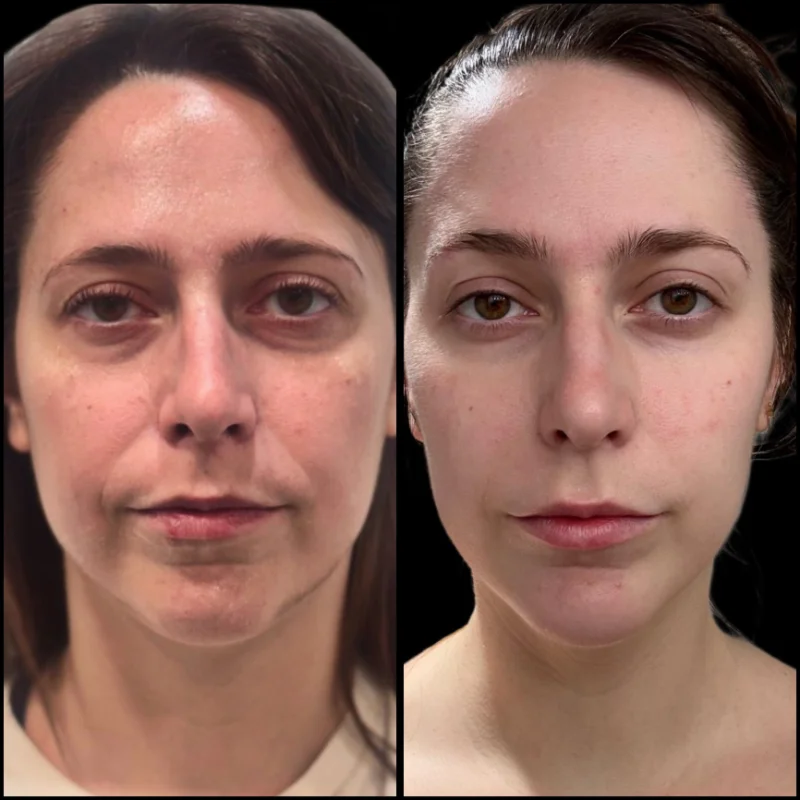
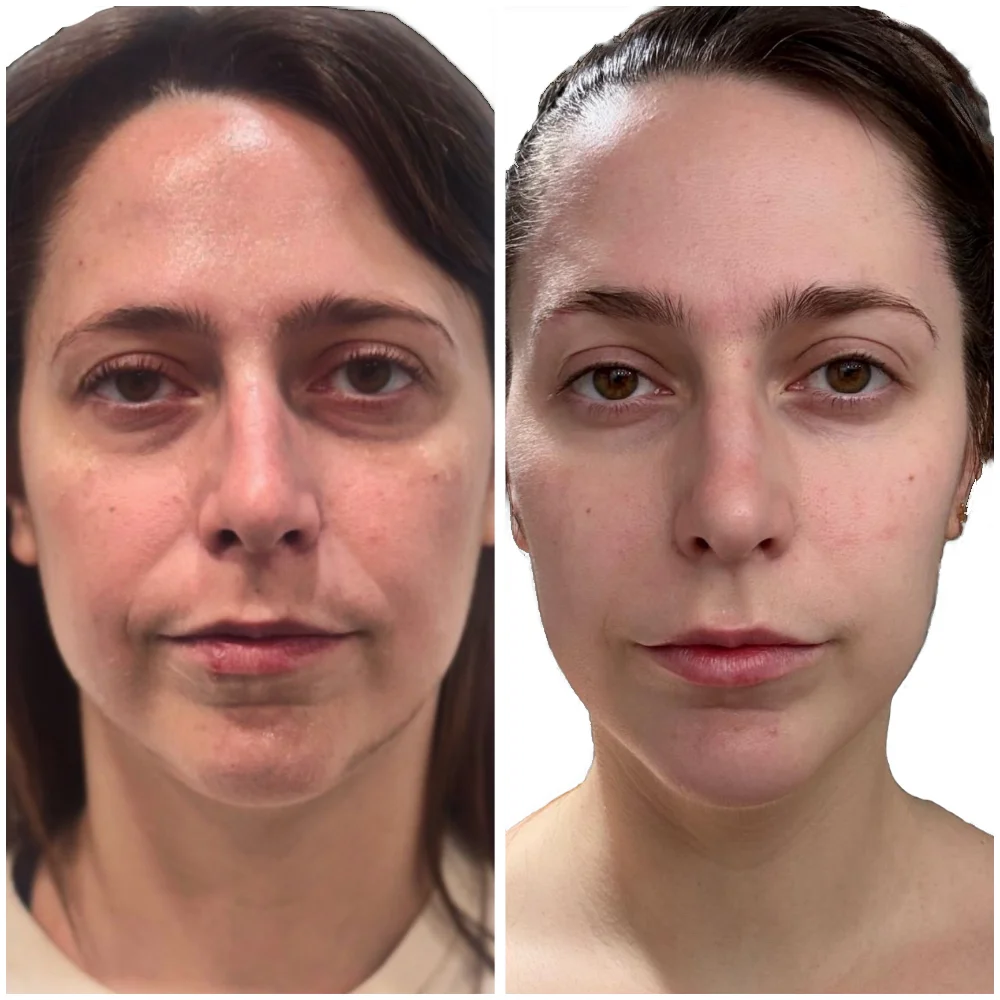
update the results carousel; improve copy and add photos

Changed region(s): [[0.0, 0.0, 1.0, 1.0]]

diff --git a/src/app/sections/home/Results.tsx b/src/app/sections/home/Results.tsx
@@ -2,7 +2,6 @@
 
 import Container from "@/components/Container";
 import Image from "next/image";
-import Link from "next/link";
 import { useMemo, useRef } from "react";
 
 type ResultsCard = {
@@ -17,34 +16,35 @@ export default function ResultsCarouselSection() {
     () => [
       {
         src: "/images/results/cheek-filler-before-after.webp",
+        alt: "Full face refresh result with softened lines and balanced facial contours",
+        title: "Full Face Harmony",
+        description: "Full face and neck Botox, plus filler in cheeks, nasolabial folds, and chin to restore harmony.",
+      },
+      {
+        src: "/images/results/botox-cheek-filler-before-after.webp",
         alt: "Before and after placeholder result",
-        title: "Subtle Lift, Natural Contour",
-        description: "Cheek and midface support with balanced definition.",
+        title: "Gentle Lift & Clean Lines",
+        description: "Forehead Botox paired with cheek filler for a gentle lift and cleaner lines.",
       },
       {
-        src: "/images/results/placeholder-02.jpg",
-        alt: "Skin quality improvement placeholder result",
-        title: "Skin Quality Focus",
-        description: "Refined texture and glow with a conservative approach.",
+        // 3
+        src: "/images/results/botox-cheek-lip-chin-filler-before-after.webp",
+        alt: "Facial balancing result with refined symmetry through cheeks, lips, and chin",
+        title: "Facial Balancing",
+        description: "Full face and neck Botox with filler in cheeks, lips, and chin to fine‑tune proportion.",
       },
-      {
-        src: "/images/results/placeholder-03.jpg",
-        alt: "Jawline definition placeholder result",
-        title: "Refined Structure",
-        description: "Jawline definition that looks like you, just rested.",
-      },
-      {
-        src: "/images/results/placeholder-04.jpg",
-        alt: "Wrinkle reduction placeholder result",
-        title: "Natural Movement Preserved",
-        description: "Softened expression lines without a frozen look.",
-      },
-      {
-        src: "/images/results/placeholder-05.jpg",
-        alt: "Lip balance placeholder result",
-        title: "Balanced Lip Shape",
-        description: "Hydration and shape with proportion-first planning.",
-      },
+      // {
+      //   src: "/images/results/placeholder-04.jpg",
+      //   alt: "Wrinkle reduction placeholder result",
+      //   title: "Natural Movement Preserved",
+      //   description: "Softened expression lines without a frozen look.",
+      // },
+      // {
+      //   src: "/images/results/placeholder-05.jpg",
+      //   alt: "Lip balance placeholder result",
+      //   title: "Balanced Lip Shape",
+      //   description: "Hydration and shape with proportion-first planning.",
+      // },
     ],
     []
   );
@@ -66,12 +66,11 @@ export default function ResultsCarouselSection() {
       <Container>
         <div className="flex items-end justify-between gap-6">
           <div>
-            <p className="font-fraunces text-3xl md:text-4xl font-bold text-outer-space">
-              Real People. Real Results.
-            </p>
+            <h2 className="font-fraunces text-3xl md:text-4xl font-bold text-outer-space">
+              Results that still look like you
+            </h2>
             <p className="mt-3 text-outer-space/80 text-base md:text-lg max-w-2xl">
-              A curated look at subtle, physician-led outcomes focused on balance, restraint,
-              and skin quality over time.
+              A curated look at physician-led Botox and dermal filler outcomes focused on balance, restraint, and long-term skin quality.
             </p>
           </div>
 
@@ -104,9 +103,9 @@ export default function ResultsCarouselSection() {
             <div
               key={card.src}
               ref={index === 0 ? cardRef : null}
-              className="min-w-[80%] md:min-w-[48%] lg:min-w-[32%] snap-start"
+              className="flex-none w-[70%] md:w-[45%] lg:w-[30%] snap-start"
             >
-              <div className="overflow-hidden rounded-2xl border border-gray-200 bg-white shadow-sm">
+              <div className="h-full overflow-hidden rounded-2xl border border-gray-200 bg-white shadow-sm flex flex-col">
                 <div className="relative aspect-[4/3] w-full">
                   <Image
                     src={card.src}
@@ -117,37 +116,18 @@ export default function ResultsCarouselSection() {
                     priority={index === 0}
                   />
                 </div>
-                <div className="p-5">
-                  <p className="text-base font-semibold text-outer-space">{card.title}</p>
-                  <p className="mt-2 text-sm text-outer-space/70">{card.description}</p>
+                <div className="p-5 min-h-[96px]">
+                  <h3 className="text-base font-semibold text-outer-space line-clamp-1">
+                    {card.title}
+                  </h3>
+                  <p className="mt-2 text-sm text-outer-space/70 line-clamp-2">
+                    {card.description}
+                  </p>
                 </div>
               </div>
             </div>
           ))}
         </div>
-
-        {/* <div className="mt-6 flex flex-wrap items-center gap-4">
-          <Link
-            href="https://www.instagram.com/"
-            target="_blank"
-            rel="noreferrer"
-            className="inline-flex items-center justify-center rounded-full border px-8 py-2.5 font-satoshi text-base font-medium transition-colors bg-white border-outer-space text-outer-space hover:bg-carnation hover:text-merino"
-            aria-label="View more results on Instagram"
-          >
-            View more results on Instagram
-          </Link>
-          <Link
-            href="/treatments/consult"
-            className="text-sm font-semibold text-carnation underline underline-offset-4 hover:text-outer-space transition-colors"
-            aria-label="Request a consultation"
-          >
-            Request a consultation
-          </Link>
-        </div> */}
-{/* 
-        <p className="mt-3 text-xs text-outer-space/60 leading-relaxed">
-          Results vary by individual and treatment plan. Images reflect real patients with consent.
-        </p> */}
       </Container>
     </section>
   );
